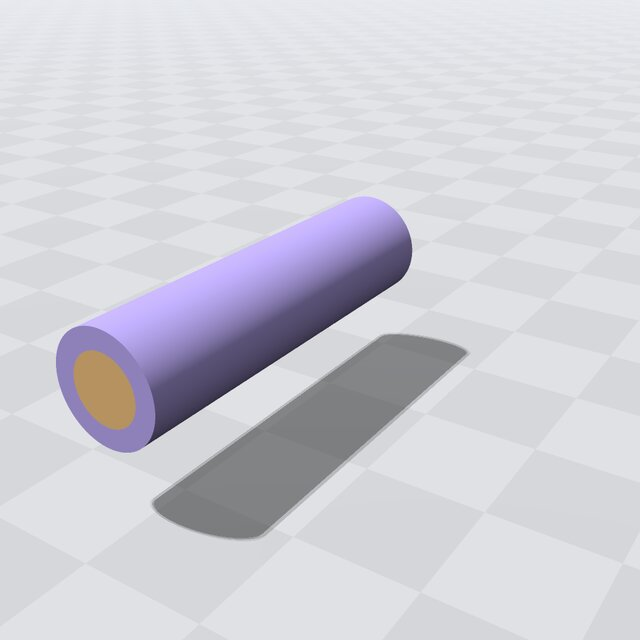
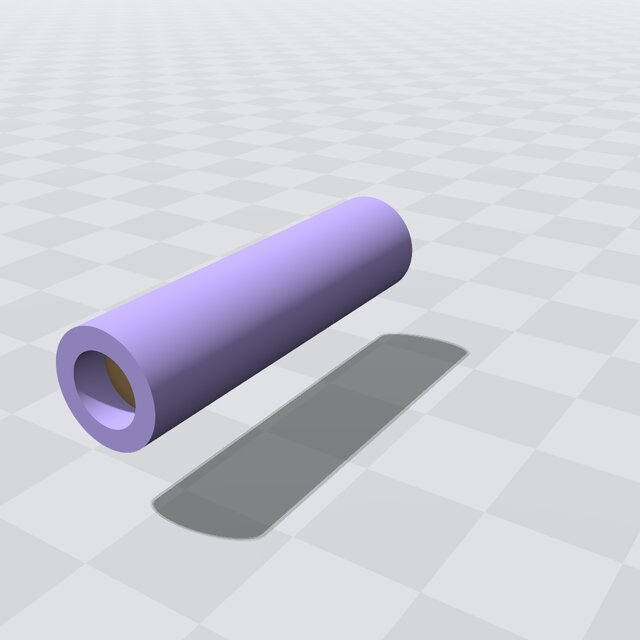
LanguageDomains: the core stops short of the cable's ends and meets the air
The core's ends sat exactly on the box's end faces, so its interface with the air
existed only in name, and completeness() warned about it. The core now stops 0.5
short of each end (param strip): electrostatics holds its ends in the conductor
group, and cfd in a group of their own, tips (walls stays the jacket alone, as the
coupling to electrostatics.dielectric requires). Both domains are complete with no
findings. The model as shown on the Language page and the example's figure follow.

Changed region(s): [[0.0938, 0.5312, 0.2188, 0.6875]]

diff --git a/Docs/Sphinx/source/Language.rst b/Docs/Sphinx/source/Language.rst
@@ -33,12 +33,14 @@ model is two files, as most models are. The geometry, ``cable/model.ebg``:
 
    ebg 0
 
-   # A cable along z, in a box of air with a cross-flow along x: a copper core inside a PTFE jacket.
+   # A cable along z, in a box of air with a cross-flow along x: a copper core inside a PTFE jacket. The core stops
+   # short of the cable's ends, where it meets the air.
    param length = 6
    param r_core = 0.5
    param r_out  = 0.8
+   param strip  = 0.5  # how far the core stops short of each end
 
-   conductor  = cylinder((0, 0, -length / 2), (0, 0, length / 2), radius = r_core)
+   conductor  = cylinder((0, 0, strip - length / 2), (0, 0, length / 2 - strip), radius = r_core)
    insulation = tube((0, 0, -length / 2), (0, 0, length / 2), inner_radius = r_core, outer_radius = r_out)
    air_box    = box((-3, -2, -length / 2), (5, 2, length / 2))
      .label(xmin = "inlet", xmax = "outlet", ymin = "far", ymax = "far", zmin = "ends", zmax = "ends")
@@ -80,7 +82,7 @@ the file a program reads:
    domain electrostatics {
      subdomain insulation = jacket
      subdomain gas = air
-     group conductor = interface(core, jacket) { potential = 1000 }
+     group conductor = interface(core, jacket), interface(core, air) { potential = 1000 }
      group dielectric = interface(jacket, air) { surface_charge = 0 }
      group ground = label("inlet"), label("outlet"), label("far") { potential = 0 }
      group ends = remaining() { kind = "zero_flux" }
@@ -92,6 +94,7 @@ the file a program reads:
      group inlet = label("inlet") { velocity = (2, 0, 0) }
      group outlet = label("outlet") { pressure = 0 }
      group walls = interface(air, jacket) { kind = "no_slip" }
+     group tips = interface(air, core) { kind = "no_slip" }
      group slip = label("far"), label("ends") { kind = "slip" }
    }
 
@@ -107,9 +110,11 @@ the file a program reads:
   the core is in neither, so it is excluded, and its surface is a boundary of the domain. Each ``group`` is a
   surface group: a name, the surfaces it holds (selected by what they are: an interface between two
   regions, a label, or ``remaining()``, every surface no other group holds), and its properties.
-* The flow computes in the air alone; its walls are the cable's surface.
+* The flow computes in the air alone; its walls are the jacket's surface, and the core's ends, where the core
+  stops short of the jacket, are a group of their own, ``tips``, since the walls are coupled to a group of the
+  other domain that holds the jacket alone.
 * A ``couple`` joins two domains, here through a subdomain each (the gas, which both compute in) and through a
-  surface group each (the cable's surface).
+  surface group each (the jacket's surface).
 * ``view`` says how a viewer opens the model; programs ignore it.
 
 :ref:`Chap:ExampleLanguageDomains` reads ``cable/setup.ebg`` in C++ (see :ref:`Chap:ImplemLanguage` for the

diff --git a/Docs/Sphinx/source/ExampleLanguageDomains.rst b/Docs/Sphinx/source/ExampleLanguageDomains.rst
@@ -19,7 +19,7 @@ The model
 
 ``cable/model.ebg`` holds the geometry: the shapes, the overlay of regions with their materials, and the box's
 faces labeled ``inlet``, ``outlet``, ``far`` and ``ends``. ``cable/setup.ebg`` includes it and holds the
-materials' properties, two domains (electrostatics, in the jacket and the air; and cfd, the air with four
+materials' properties, two domains (electrostatics, in the jacket and the air; and cfd, the air with five
 surface groups) and the couplings between them. Both are shown and explained in :ref:`Chap:Language`.
 
 Reading it
